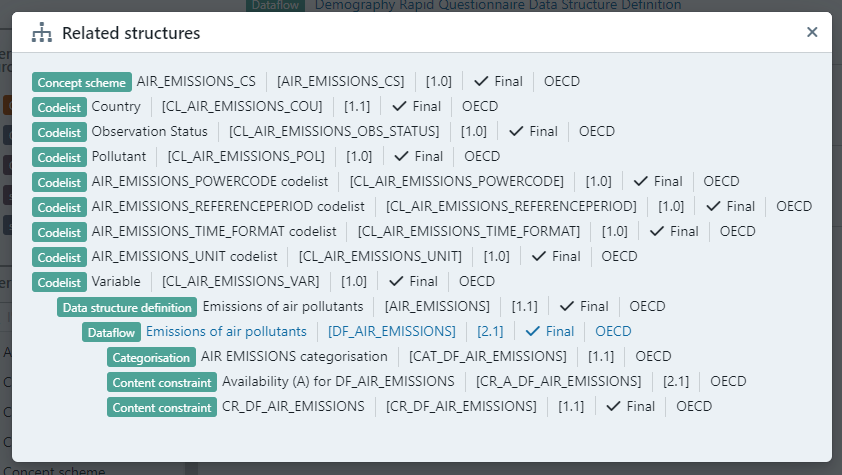
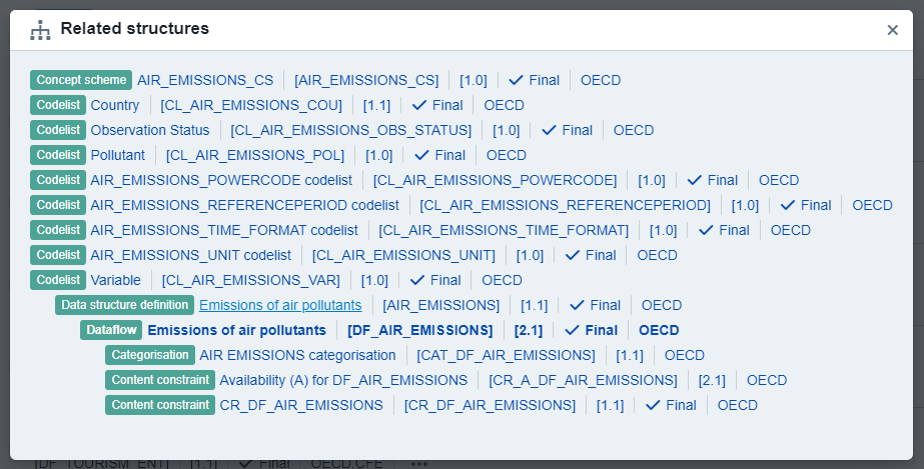
DLM clickable artefacts

Changed region(s): [[0.0, 0.0, 0.9881, 1.0], [0.9572, 0.0597, 0.9881, 0.0896]]

diff --git a/content/using-dlm/delete-data-structures.md b/content/using-dlm/delete-data-structures.md
@@ -67,11 +67,14 @@ If the deletion fails (e.g. dependency conflict), the appropriate error message 
 ### Delete an artefact and its related structure artefacts
 > Release in [March 10, 2021 Release .Stat Suite JS 7.1.0](https://sis-cc.gitlab.io/dotstatsuite-documentation/changelog/#march-10-2021)
 
-From the DLM list of artefacts, you can select from the left menu, the option to delete a structure artefact **and/or related structures**.
+From the DLM list of artefacts, you can select from the left menu the option to delete a structure artefact **and/or related structures**.
 
 ![DLM delete](/dotstatsuite-documentation/images/dlm-delete4.png)
 
 Once you click, it displays a popup window with all listed artefacts using a tree control and selectable items. It details the artefact type, name, ID, version, "finality" and agency.  
+
+Since [September 15, 2022 Release .Stat Suite JS radio](https://sis-cc.gitlab.io/dotstatsuite-documentation/changelog/#september-15-2022), the current selected artefact is displayed in bold, and when clicking on any artefact from the list, it opens a new tab/window displaying the content of the artefact.
+
 1) The original item is pre-selected as well as all below items.  
 2) Non-delete-able artefacts are marked as such with a red forbidden icon. A tooltip explains the reason and solution: "Cannot be deleted since referenced by: XXXX, XXXX. First delete those structures and then try again.". When there are more than 3 "outside" references, then the number of references is mentioned.
 

diff --git a/content/using-dlm/list-related-data-structures.md b/content/using-dlm/list-related-data-structures.md
@@ -6,6 +6,8 @@ weight: 255
 
 ---
 
+> *Version history:*  
+> Enhanced with clickable artefacts in [September 15, 2022 Release .Stat Suite JS radio](https://sis-cc.gitlab.io/dotstatsuite-documentation/changelog/#september-15-2022)
 > Released in [January 21, 2021 Release .Stat Suite JS 7.0.0](https://sis-cc.gitlab.io/dotstatsuite-documentation/changelog/#january-21-2021)
 
 To visualise and discover the dependencies between data structure artefacts, e.g. which Dataflows reference a particular Data Structure Definition, or which Codelists are being used by that Data Structure Definition, the contextual 'List related structures' menu can be used:
@@ -22,4 +24,6 @@ The DLM displays in a popup all the listed artefacts using a tree control with v
 
 ![DLM list related structures](/dotstatsuite-documentation/images/dlm-list-related-structures-tree-example.png)  
 
-The popup can be closed using the window close button.
+The current selected artefact is displayed in bold, and when clicking on any artefact, it opens a new tab/window displaying the content of the artefact, the same way it is currently done for the artefacts' list on the homepage overview.
+
+The popup can be closed using the window close cross icon.
